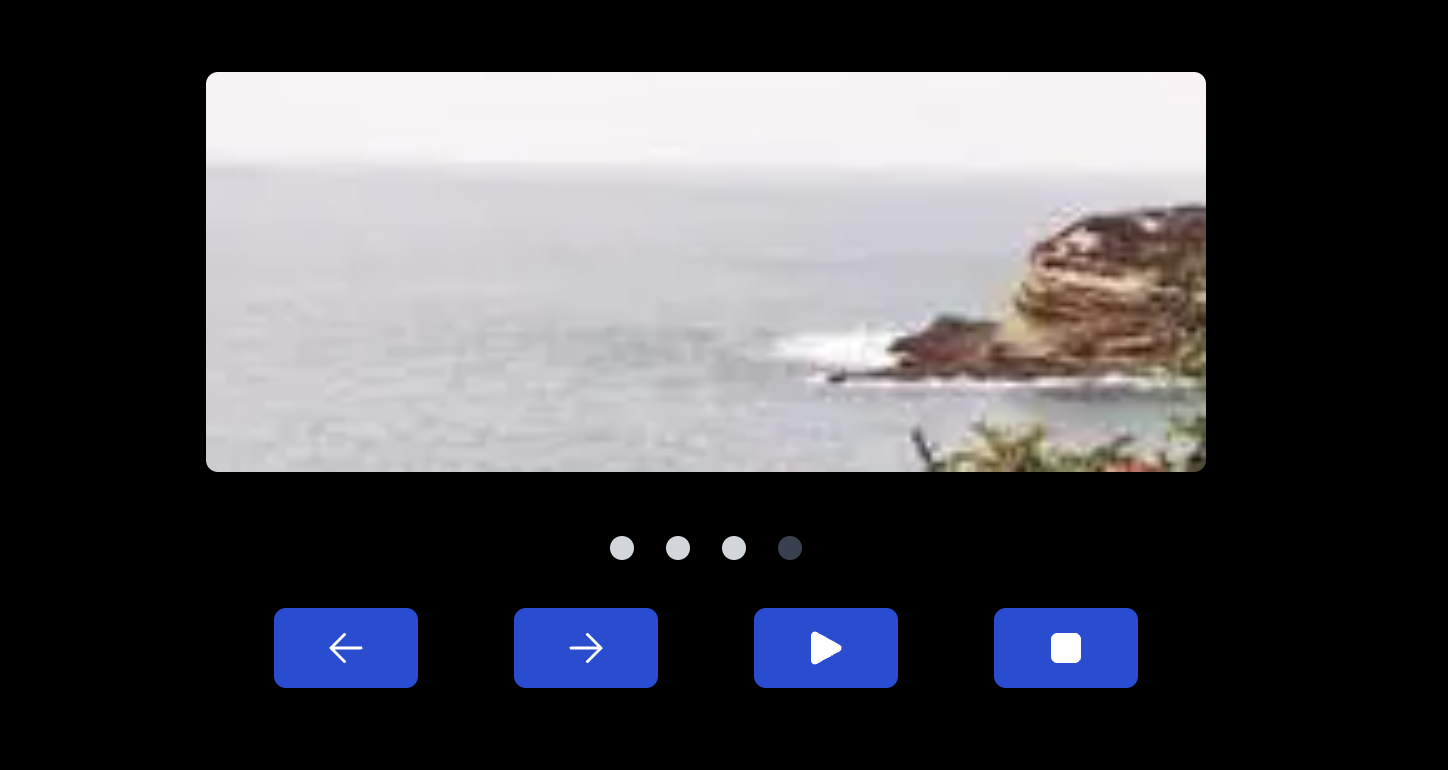
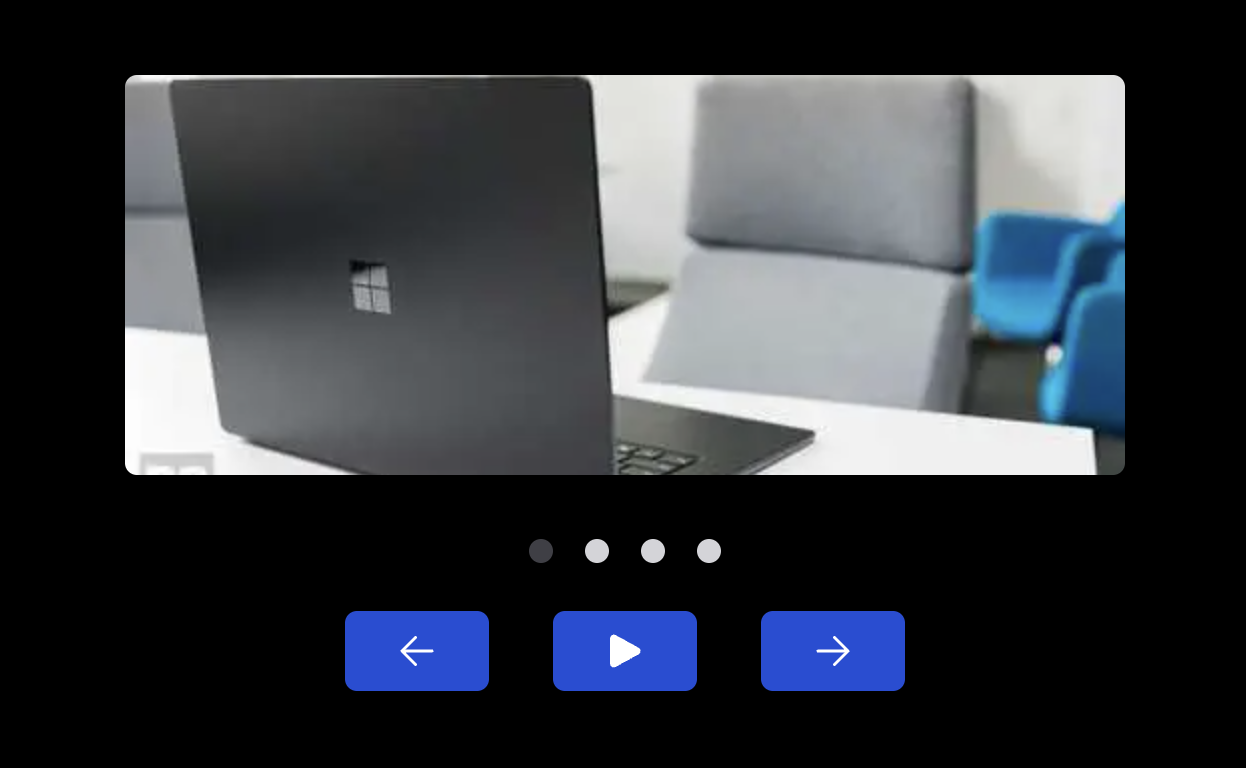
enhanced slider codes

diff --git a/src/app/codes/carousel-slider/CarouselSlider.tsx b/src/app/codes/carousel-slider/CarouselSlider.tsx
@@ -26,9 +26,17 @@ import {
 } from '@heroicons/react/24/solid';
 
 const TIMEOUT = 1000;
+// random images 
 const SLIDES = ['/slide-1.jpg', '/slide-2.jpg', '/slide-3.jpg', '/slide-4.jpg'];
 
-const Controls = ({ setIndex, slideIndex }: { setIndex: Dispatch<SetStateAction<any>>; slideIndex: number }) => {
+const Controls = ({
+	setIndex,
+	slideIndex
+}: {
+	setIndex: Dispatch<SetStateAction<any>>;
+	slideIndex: number;
+}) => {
+	const [isPlay, setIsPlay] = useState(false);
 	const interval = useRef<any>();
 
 	const increament = () => {
@@ -60,44 +68,57 @@ const Controls = ({ setIndex, slideIndex }: { setIndex: Dispatch<SetStateAction<
 					);
 				})}
 			</div>
-			<div className="grid grid-cols-2 place-items-center gap-8 pt-8 sm:grid-cols-4 sm:pt-0">
+			<div className="flex items-center justify-center space-x-4 pt-8 sm:space-x-8 sm:pt-0">
 				<button
 					onClick={() => {
 						setIndex((curIndex: number) => {
 							const newIndex = curIndex - 1;
 							return newIndex < 0 ? SLIDES.length - 1 : newIndex;
 						});
+						if (interval.current) {
+							clearInterval(interval.current);
+							setIsPlay(false);
+						}
 					}}
 					className="rounded-md bg-blue-700 px-6 py-2 transition hover:scale-95 active:scale-105"
 				>
 					<ArrowSmallLeftIcon className="w-6 text-white" />
 				</button>
+				{isPlay ? (
+					<button
+						onClick={() => {
+							setIsPlay(!isPlay);
+							clearInterval(interval.current);
+						}}
+						className="rounded-md bg-blue-700 px-6 py-2 transition hover:scale-95 active:scale-105"
+					>
+						<StopIcon className="w-6 text-white" />
+					</button>
+				) : (
+					<button
+						onClick={() => {
+							setIsPlay(!isPlay);
+							if (interval.current) {
+								clearInterval(interval.current);
+							}
+							interval.current = setInterval(increament, TIMEOUT);
+						}}
+						className="rounded-md bg-blue-700 px-6 py-2 transition hover:scale-95 active:scale-105"
+					>
+						<PlayIcon className="w-6 text-white" />
+					</button>
+				)}
 				<button
 					onClick={() => {
 						increament();
+						if (interval.current) {
+							clearInterval(interval.current);
+							setIsPlay(false);
+						}
 					}}
 					className="rounded-md bg-blue-700 px-6 py-2 transition hover:scale-95 active:scale-105"
 				>
 					<ArrowSmallRightIcon className="w-6 text-white" />
-				</button>
-				<button
-					onClick={() => {
-						if (interval.current) {
-							clearInterval(interval.current);
-						}
-						interval.current = setInterval(increament, TIMEOUT);
-					}}
-					className="rounded-md bg-blue-700 px-6 py-2 transition hover:scale-95 active:scale-105"
-				>
-					<PlayIcon className="w-6 text-white" />
-				</button>
-				<button
-					onClick={() => {
-						clearInterval(interval.current);
-					}}
-					className="rounded-md bg-blue-700 px-6 py-2 transition hover:scale-95 active:scale-105"
-				>
-					<StopIcon className="w-6 text-white" />
 				</button>
 			</div>
 		</div>
@@ -116,7 +137,7 @@ const Slide = ({ slideNumber }: { slideNumber: number }) => {
 			transition={{ ease: 'easeOut', duration: 2 }}
 			className="relative h-[200px] w-full sm:w-[500px]"
 		>
-			{loaded && <div className="h-full w-full bg-zinc-300 dark:bg-zinc-600" />}
+			{loaded && <div className="shimmer h-full w-full" />}
 			<Image
 				alt="image"
 				src={SLIDES[slideNumber]}
@@ -131,12 +152,15 @@ const Slide = ({ slideNumber }: { slideNumber: number }) => {
 
 export default function Slides() {
 	const [index, setIndex] = useState(0);
+
 	return (
-		<div className="mt-12">
-			<div className="text-center text-4xl font-bold">Carousel Slider</div>
-			<div className="mt-16 flex flex-col items-center justify-center space-y-8 px-4">
-				<Slide slideNumber={index} />
-				<Controls setIndex={setIndex} slideIndex={index} />
+		<div>
+			<div className="mt-12 px-2 md:px-0">
+				<div className="text-center text-4xl font-bold md:text-left">Carousel Slider</div>
+				<div className="mt-16 flex flex-col items-center justify-center space-y-8 rounded-md border border-zinc-300 px-2 py-20 dark:border-zinc-600 ">
+					<Slide slideNumber={index} />
+					<Controls setIndex={setIndex} slideIndex={index} />
+				</div>
 			</div>
 		</div>
 	);
@@ -144,6 +168,7 @@ export default function Slides() {
 `;
 
 const TIMEOUT = 1000;
+// randome images
 const SLIDES = ['/slide-1.jpg', '/slide-2.jpg', '/slide-3.jpg', '/slide-4.jpg'];
 
 const Controls = ({
@@ -153,6 +178,7 @@ const Controls = ({
 	setIndex: Dispatch<SetStateAction<any>>;
 	slideIndex: number;
 }) => {
+	const [isPlay, setIsPlay] = useState(false);
 	const interval = useRef<any>();
 
 	const increament = () => {
@@ -184,44 +210,57 @@ const Controls = ({
 					);
 				})}
 			</div>
-			<div className="grid grid-cols-2 place-items-center gap-8 pt-8 sm:grid-cols-4 sm:pt-0">
+			<div className="flex items-center justify-center space-x-4 pt-8 sm:space-x-8 sm:pt-0">
 				<button
 					onClick={() => {
 						setIndex((curIndex: number) => {
 							const newIndex = curIndex - 1;
 							return newIndex < 0 ? SLIDES.length - 1 : newIndex;
 						});
+						if (interval.current) {
+							clearInterval(interval.current);
+							setIsPlay(false);
+						}
 					}}
 					className="rounded-md bg-blue-700 px-6 py-2 transition hover:scale-95 active:scale-105"
 				>
 					<ArrowSmallLeftIcon className="w-6 text-white" />
 				</button>
+				{isPlay ? (
+					<button
+						onClick={() => {
+							setIsPlay(!isPlay);
+							clearInterval(interval.current);
+						}}
+						className="rounded-md bg-blue-700 px-6 py-2 transition hover:scale-95 active:scale-105"
+					>
+						<StopIcon className="w-6 text-white" />
+					</button>
+				) : (
+					<button
+						onClick={() => {
+							setIsPlay(!isPlay);
+							if (interval.current) {
+								clearInterval(interval.current);
+							}
+							interval.current = setInterval(increament, TIMEOUT);
+						}}
+						className="rounded-md bg-blue-700 px-6 py-2 transition hover:scale-95 active:scale-105"
+					>
+						<PlayIcon className="w-6 text-white" />
+					</button>
+				)}
 				<button
 					onClick={() => {
 						increament();
+						if (interval.current) {
+							clearInterval(interval.current);
+							setIsPlay(false);
+						}
 					}}
 					className="rounded-md bg-blue-700 px-6 py-2 transition hover:scale-95 active:scale-105"
 				>
 					<ArrowSmallRightIcon className="w-6 text-white" />
-				</button>
-				<button
-					onClick={() => {
-						if (interval.current) {
-							clearInterval(interval.current);
-						}
-						interval.current = setInterval(increament, TIMEOUT);
-					}}
-					className="rounded-md bg-blue-700 px-6 py-2 transition hover:scale-95 active:scale-105"
-				>
-					<PlayIcon className="w-6 text-white" />
-				</button>
-				<button
-					onClick={() => {
-						clearInterval(interval.current);
-					}}
-					className="rounded-md bg-blue-700 px-6 py-2 transition hover:scale-95 active:scale-105"
-				>
-					<StopIcon className="w-6 text-white" />
 				</button>
 			</div>
 		</div>
